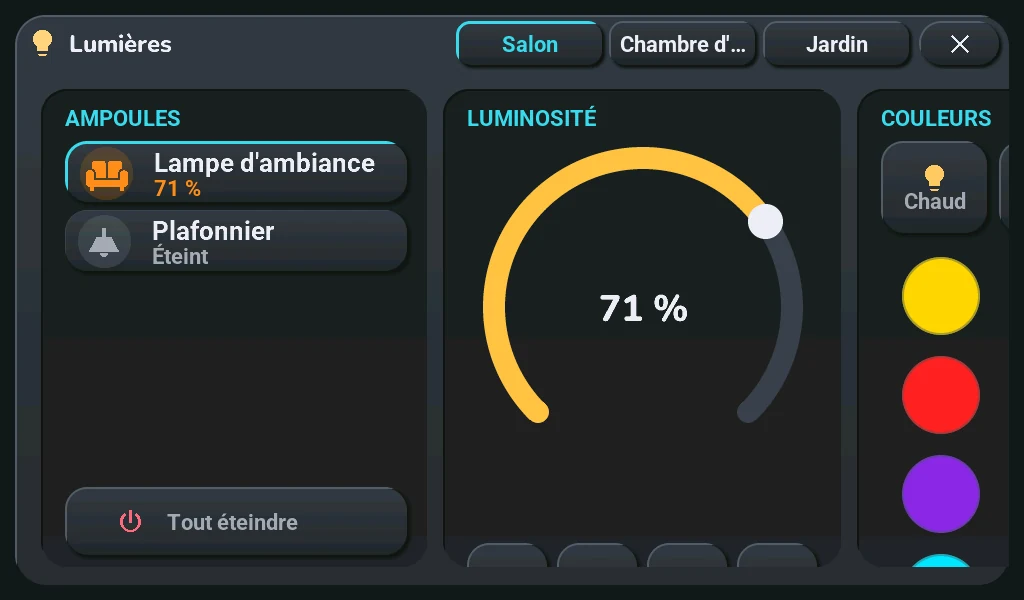
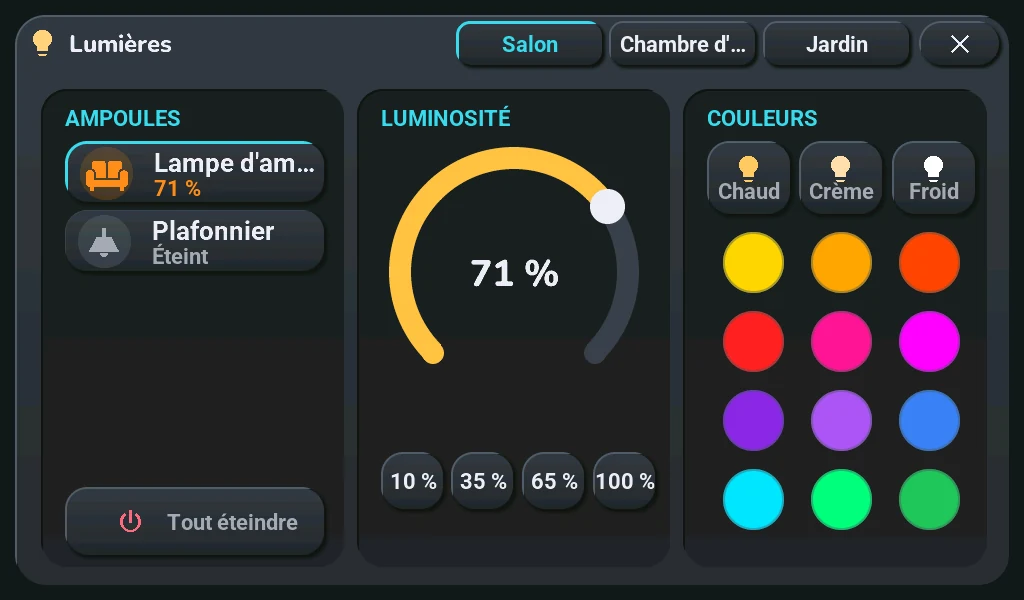
docs(waveshare): la 7B après le lot 4, images tirées du rendu de main
Le lot 4 (#462) met chaque popup à la taille de la 7B : la page le dit, avec ses
quelques écarts, et ce qui reste (les jeux, la page Bilan de l'énergie, qui dépasse
encore du bas). Images refaites depuis le run 38871154291 (même arbre que main) :
accueil, Lumières, Énergie Aujourd'hui. README, architecture et AGENTS.md alignés ;
durée de compilation d'AGENTS.md corrigée (1 à 3 min, pas 20-45 s).

diff --git a/docs/waveshare-7b.md b/docs/waveshare-7b.md
@@ -6,17 +6,17 @@
 
 The same firmware also runs on a second board, the **Waveshare ESP32-P4-WIFI6-Touch-LCD-7B**: a 7-inch, 1024×600 touch screen built around the same chips as the Tab5 (an ESP32-P4, an ESP32-C6 for Wi-Fi, an ES7210 for the microphones). It is a cheaper and bigger screen, with less on board: no battery, no motion sensor, no clock chip.
 
-**Status: experimental.** The author's board has been the daily screen of their home since 2026-10-14: display, touch, backlight, sound and Wi-Fi work, and Home Assistant sees it like a Tab5. One board only, though, and the inside of most popups is not laid out for its smaller screen yet ([what is left](#what-is-not-done-yet)). If you try it, say how it went in [Discussions → Hardware compatibility](https://github.com/Axellum/M5-Tab5-ESPHome-LVGL/discussions/categories/hardware-compatibility): it helps a lot.
+**Status: experimental.** The author's board has been the daily screen of their home since 2026-10-14: display, touch, backlight, sound and Wi-Fi work, and Home Assistant sees it like a Tab5. One board only, though, and the games and one energy page are not adapted to its screen yet ([what is left](#what-is-not-done-yet)). If you try it, say how it went in [Discussions → Hardware compatibility](https://github.com/Axellum/M5-Tab5-ESPHome-LVGL/discussions/categories/hardware-compatibility): it helps a lot.
 
 The choice of the board is one line at build time ([ADR-0061](decisions/0061-board-and-screen-size.md)); on the Tab5, nothing changes.
 
 ## What changes on screen
 
-The home screen is the Tab5's layout brought to 1024×600: same places, same proportions, smaller. The large fonts are scaled by 0.82 (about 1024 / 1280 and 600 / 720), the small ones keep their size so they stay readable. Every popup gets the same frame, sized to the screen; what is inside is still drawn for the Tab5 in most of them, and runs past the right or bottom edge.
+The home screen is the Tab5's layout brought to 1024×600: same places, same proportions, smaller. The large fonts are scaled by 0.82 (about 1024 / 1280 and 600 / 720), the small ones keep their size so they stay readable. The popups do the same: each keeps the Tab5's layout, smaller. Where a fixed-size text no longer fitted, it moves a little instead (the plant rows lose some margin, a rain amount drops its « mm » in a narrow weather column, the « On / Off » key of the remote wraps onto two lines); the camera pictures are asked at 720 × 405 instead of 960 × 540. The details are in [ADR-0061](decisions/0061-board-and-screen-size.md).
 
-| Home screen | Music (fits) | Lights (not adapted yet) |
+| Home screen | Lights | Energy |
 |---|---|---|
-| ![The home screen on the 7B at 1024×600, in French: clock, Ok Nabu frame, centre card and the five forecast cards](images/waveshare/7b-accueil.webp) | ![The Music popup on the 7B, in French: cover, title, buttons and volume, all inside the screen](images/waveshare/7b-musique.webp) | ![The Lights popup on the 7B, in French: the colour column is cut at the right edge and the scene buttons at the bottom](images/waveshare/7b-lumieres.webp) |
+| ![The home screen on the 7B at 1024×600, in French: clock, Ok Nabu frame, centre card and the five forecast cards](images/waveshare/7b-accueil.webp) | ![The Lights popup on the 7B, in French: bulbs, brightness ring and colours, all inside the screen](images/waveshare/7b-lumieres.webp) | ![The Energy popup on the 7B, Today page, in French: the sun's course, the production bars and the best window](images/waveshare/7b-energie.webp) |
 
 These pictures come from the off-device render (the firmware running on a PC, [debugging](debugging.md)), which draws every screen at 1024×600 on each firmware change; they are the same pixels as on the board, without the touch. The render of this board is in French only.
 
@@ -60,7 +60,7 @@ Two things learnt along the way:
 ## What is not done yet
 
 - **Not checked on the board:** the microphone and the wake word, the cameras popup (JPEG decoding), every game, a power cut without network.
-- **Not adapted to 1024×600 yet:** the inside of most popups (lights, shutters, climate, temperature, weather, energy, plants, settings, alarm clock, TV remote, cameras, Arcade): usable, but cut at the right or bottom edge. Already fitting: music, house, calendar, alerts, tracking, fridges, AI server. The games are not adapted either. These are the next lots of [ADR-0061](decisions/0061-board-and-screen-size.md); the render counts what runs past the edge for every screen, on every change.
+- **Not adapted to 1024×600 yet:** the games (the next lot of [ADR-0061](decisions/0061-board-and-screen-size.md)), and the « Balance » page of the Energy popup, which came after the popups were adapted and runs past the bottom edge. For every other screen, the render counts on each change what runs past its area: about as much as on the Tab5 itself, mostly the shutters, alarm clock and cameras popups, which do the same there.
 - Reported by others on this board, not seen here: a faint glow with the backlight at 0 %, a distorted speaker.
 - Start-up takes about 20 s before the first image, like the Tab5.
 
@@ -117,17 +117,17 @@ Sources: Waveshare's board support package and schematic, ESPHome's display mode
 
 Le même firmware tourne aussi sur une deuxième carte, la **Waveshare ESP32-P4-WIFI6-Touch-LCD-7B** : un écran tactile de 7 pouces en 1024×600, construit autour des mêmes puces que le Tab5 (un ESP32-P4, un ESP32-C6 pour le Wi-Fi, un ES7210 pour les micros). Un écran moins cher et plus grand, avec moins de choses à bord : pas de batterie, pas de capteur de mouvement, pas de puce d'horloge.
 
-**Statut : expérimental.** La carte de l'auteur est l'écran de tous les jours de sa maison depuis le 14/10/2026 : écran, tactile, rétroéclairage, son et Wi-Fi marchent, et Home Assistant la voit comme un Tab5. Une seule carte, cela dit, et l'intérieur de la plupart des popups n'est pas encore dessiné pour son écran plus petit ([ce qui reste](#ce-qui-reste-à-faire)). Si vous l'essayez, racontez ce que ça a donné dans [Discussions → Hardware compatibility](https://github.com/Axellum/M5-Tab5-ESPHome-LVGL/discussions/categories/hardware-compatibility) : ça aide beaucoup.
+**Statut : expérimental.** La carte de l'auteur est l'écran de tous les jours de sa maison depuis le 14/10/2026 : écran, tactile, rétroéclairage, son et Wi-Fi marchent, et Home Assistant la voit comme un Tab5. Une seule carte, cela dit, et les jeux et une page de l'énergie ne sont pas encore adaptés à son écran ([ce qui reste](#ce-qui-reste-à-faire)). Si vous l'essayez, racontez ce que ça a donné dans [Discussions → Hardware compatibility](https://github.com/Axellum/M5-Tab5-ESPHome-LVGL/discussions/categories/hardware-compatibility) : ça aide beaucoup.
 
 Le choix de la carte tient en une ligne à la compilation ([ADR-0061](decisions/0061-board-and-screen-size.md)) ; sur le Tab5, rien ne change.
 
 ## Ce qui change à l'écran
 
-L'accueil reprend la mise en page du Tab5, ramenée à 1024×600 : mêmes places, mêmes proportions, en plus petit. Les grosses polices sont réduites à 0,82 (à peu près 1024 / 1280 et 600 / 720), les petites gardent leur taille pour rester lisibles. Chaque popup reçoit le même cadre, à la taille de l'écran ; ce qu'il y a dedans est encore dessiné pour le Tab5 dans la plupart d'entre eux, et dépasse du bord droit ou du bas.
+L'accueil reprend la mise en page du Tab5, ramenée à 1024×600 : mêmes places, mêmes proportions, en plus petit. Les grosses polices sont réduites à 0,82 (à peu près 1024 / 1280 et 600 / 720), les petites gardent leur taille pour rester lisibles. Les popups font de même : chacun garde la mise en page du Tab5, en plus petit. Là où un texte de taille fixe ne tenait plus, il se décale un peu (les lignes des plantes perdent un peu de marge, une quantité de pluie perd son « mm » dans une colonne météo étroite, la touche « Marche / Arrêt » de la télécommande passe sur deux lignes) ; les images des caméras sont demandées en 720 × 405 au lieu de 960 × 540. Le détail est dans l'[ADR-0061](decisions/0061-board-and-screen-size.md).
 
-| Accueil | Musique (adapté) | Lumières (pas encore adapté) |
+| Accueil | Lumières | Énergie |
 |---|---|---|
-| ![L'accueil sur la 7B en 1024×600 : horloge, cadre Ok Nabu, carte centrale et les cinq cartes de prévisions](images/waveshare/7b-accueil.webp) | ![Le popup Musique sur la 7B : pochette, titre, boutons et volume, tout dans l'écran](images/waveshare/7b-musique.webp) | ![Le popup Lumières sur la 7B : la colonne des couleurs est coupée au bord droit, les boutons de scène en bas](images/waveshare/7b-lumieres.webp) |
+| ![L'accueil sur la 7B en 1024×600 : horloge, cadre Ok Nabu, carte centrale et les cinq cartes de prévisions](images/waveshare/7b-accueil.webp) | ![Le popup Lumières sur la 7B : ampoules, anneau de luminosité et couleurs, tout dans l'écran](images/waveshare/7b-lumieres.webp) | ![Le popup Énergie sur la 7B, page Aujourd'hui : la course du soleil, les barres de production et le meilleur créneau](images/waveshare/7b-energie.webp) |
 
 Ces images viennent du rendu hors tablette (le firmware qui tourne sur un PC, [diagnostiquer](debugging.md#version-française)), qui dessine chaque écran en 1024×600 à chaque changement du firmware : ce sont les mêmes pixels que sur la carte, sans le tactile. Le rendu de cette carte n'existe qu'en français.
 
@@ -171,7 +171,7 @@ Deux choses apprises en route :
 ## Ce qui reste à faire
 
 - **Pas vérifié sur la carte :** le micro et le mot d'activation, le popup Caméras (décodage JPEG), chacun des jeux, une coupure de courant sans réseau.
-- **Pas encore adapté au 1024×600 :** l'intérieur de la plupart des popups (lumières, volets, clim, température, météo, énergie, plantes, réglages, réveil, télécommande, caméras, Arcade) : utilisables, mais coupés au bord droit ou en bas. Déjà à la bonne taille : musique, maison, calendrier, alertes, suivi, frigos, serveur IA. Les jeux non plus ne sont pas adaptés. Ce sont les lots suivants de l'[ADR-0061](decisions/0061-board-and-screen-size.md) ; le rendu compte, pour chaque écran et à chaque changement, ce qui dépasse du bord.
+- **Pas encore adapté au 1024×600 :** les jeux (le prochain lot de l'[ADR-0061](decisions/0061-board-and-screen-size.md)), et la page « Bilan » du popup Énergie, arrivée après l'adaptation des popups, qui dépasse du bas. Pour tous les autres écrans, le rendu compte à chaque changement ce qui dépasse de sa zone : à peu près autant que sur le Tab5 lui-même, surtout dans les popups Volets, Réveil et Caméras, qui font pareil là-bas.
 - Signalé par d'autres sur cette carte, pas vu ici : une faible lueur avec le rétroéclairage à 0 %, un haut-parleur qui sature.
 - Le démarrage prend une vingtaine de secondes avant la première image, comme sur le Tab5.
 

diff --git a/docs/architecture.md b/docs/architecture.md
@@ -86,7 +86,7 @@ Shared dimensional tokens, loaded first so every other package can reference the
 ---
 
 ### `carte-*.yaml`
-The board, picked at compile time by `tab5_carte:` in `Tab5/user_entities.yaml` ([ADR-0061](decisions/0061-board-and-screen-size.md)): `tab5` (the default, the M5Stack Tab5) or `waveshare-7b` (Waveshare ESP32-P4 7B, 1024×600, experimental: it runs on the author's board since 2026-10-14, the home screen and the popup frame follow its screen size, the inside of most popups not yet, see [Waveshare ESP32-P4 7B](waveshare-7b.md)). `carte-tab5.yaml` loads `geometrie-tab5.yaml`, `tab5-hardware.yaml` and the screen revision `ecran-*.yaml` below; `carte-waveshare-7b.yaml` holds the whole hardware of that board and stubs the ids of the Tab5 hardware it lacks (power switches, battery, RTC) so the other packages compile unchanged. Each board's `geometrie-*.yaml` gives the screen size (`carte_ecran_l`/`carte_ecran_h`, from which the tokens and the C++ `kEcranL`/`kEcranH` derive), the panel size, the LVGL rotation and the scale of the large fonts. The root file also picks `tab5-imu.yaml` (BMI270) on the Tab5 and `tab5-imu-absente.yaml` elsewhere. See [`docs/hardware.md`](hardware.md#waveshare-esp32-p4-7b-experimental).
+The board, picked at compile time by `tab5_carte:` in `Tab5/user_entities.yaml` ([ADR-0061](decisions/0061-board-and-screen-size.md)): `tab5` (the default, the M5Stack Tab5) or `waveshare-7b` (Waveshare ESP32-P4 7B, 1024×600, experimental: it runs on the author's board since 2026-10-14, the home screen and the popups follow its screen size, the games and the energy balance page not yet, see [Waveshare ESP32-P4 7B](waveshare-7b.md)). `carte-tab5.yaml` loads `geometrie-tab5.yaml`, `tab5-hardware.yaml` and the screen revision `ecran-*.yaml` below; `carte-waveshare-7b.yaml` holds the whole hardware of that board and stubs the ids of the Tab5 hardware it lacks (power switches, battery, RTC) so the other packages compile unchanged. Each board's `geometrie-*.yaml` gives the screen size (`carte_ecran_l`/`carte_ecran_h`, from which the tokens and the C++ `kEcranL`/`kEcranH` derive), the panel size, the LVGL rotation and the scale of the large fonts. The root file also picks `tab5-imu.yaml` (BMI270) on the Tab5 and `tab5-imu-absente.yaml` elsewhere. See [`docs/hardware.md`](hardware.md#waveshare-esp32-p4-7b-experimental).
 
 ---
 
@@ -456,7 +456,7 @@ Tokens dimensionnels partagés, chargés en premier pour que tous les autres pac
 ---
 
 ### `carte-*.yaml`
-La carte, choisie à la compilation par `tab5_carte:` dans `Tab5/user_entities.yaml` ([ADR-0061](decisions/0061-board-and-screen-size.md)) : `tab5` (par défaut, le M5Stack Tab5) ou `waveshare-7b` (Waveshare ESP32-P4 7B, 1024×600, expérimentale : elle tourne sur la carte de l'auteur depuis le 14/10/2026, l'accueil et le cadre des popups suivent la taille de son écran, pas encore l'intérieur de la plupart des popups, voir [Waveshare ESP32-P4 7B](waveshare-7b.md#version-française)). `carte-tab5.yaml` charge `geometrie-tab5.yaml`, `tab5-hardware.yaml` et la révision d'écran `ecran-*.yaml` ci-dessous ; `carte-waveshare-7b.yaml` porte tout le matériel de cette carte et remplace par des bouchons les id du matériel du Tab5 qu'elle n'a pas (alimentations, batterie, RTC), pour que les autres packages compilent sans changer. Le `geometrie-*.yaml` de chaque carte donne la taille de l'écran (`carte_ecran_l`/`carte_ecran_h`, dont dérivent les jetons et les `kEcranL`/`kEcranH` du C++), la taille de la dalle, la rotation de LVGL et l'échelle des grosses polices. Le fichier racine choisit aussi `tab5-imu.yaml` (BMI270) sur le Tab5 et `tab5-imu-absente.yaml` ailleurs. Voir [`docs/hardware.md`](hardware.md#waveshare-esp32-p4-7b-expérimentale).
+La carte, choisie à la compilation par `tab5_carte:` dans `Tab5/user_entities.yaml` ([ADR-0061](decisions/0061-board-and-screen-size.md)) : `tab5` (par défaut, le M5Stack Tab5) ou `waveshare-7b` (Waveshare ESP32-P4 7B, 1024×600, expérimentale : elle tourne sur la carte de l'auteur depuis le 14/10/2026, l'accueil et les popups suivent la taille de son écran, pas encore les jeux ni la page Bilan de l'énergie, voir [Waveshare ESP32-P4 7B](waveshare-7b.md#version-française)). `carte-tab5.yaml` charge `geometrie-tab5.yaml`, `tab5-hardware.yaml` et la révision d'écran `ecran-*.yaml` ci-dessous ; `carte-waveshare-7b.yaml` porte tout le matériel de cette carte et remplace par des bouchons les id du matériel du Tab5 qu'elle n'a pas (alimentations, batterie, RTC), pour que les autres packages compilent sans changer. Le `geometrie-*.yaml` de chaque carte donne la taille de l'écran (`carte_ecran_l`/`carte_ecran_h`, dont dérivent les jetons et les `kEcranL`/`kEcranH` du C++), la taille de la dalle, la rotation de LVGL et l'échelle des grosses polices. Le fichier racine choisit aussi `tab5-imu.yaml` (BMI270) sur le Tab5 et `tab5-imu-absente.yaml` ailleurs. Voir [`docs/hardware.md`](hardware.md#waveshare-esp32-p4-7b-expérimentale).
 
 ---
 

diff --git a/README.md b/README.md
@@ -113,7 +113,7 @@ Just want to see it running first? The [demo mode](docs/demo_mode.md) pushes dem
 | **ST7123** | 14 Oct 2025 → 28 Apr 2026 | ✅ Supported — the author's device, in daily use (default) |
 | **ST7121** | from 28 Apr 2026 | ✅ Runs on another user's unit since October 2026: display, touch and wake word ([Discussion #278](https://github.com/Axellum/M5-Tab5-ESPHome-LVGL/discussions/278)); the author has none — add `tab5_ecran: st7121` to `Tab5/user_entities.yaml` |
 | **ILI9881C** + GT911 touch | 9 May 2025 → 14 Oct 2025 | 🧪 Compiles, untested — add `tab5_ecran: ili9881c` to `Tab5/user_entities.yaml` |
-| **Waveshare ESP32-P4 7B** (another board: 7-inch, 1024×600) | — | 🧪 Experimental — runs on the author's board since 14 Oct 2026, the inside of most popups not adapted to its screen yet; build it yourself with `tab5_carte: waveshare-7b` and ESPHome 2026.9.1 ([Waveshare 7B](docs/waveshare-7b.md)) |
+| **Waveshare ESP32-P4 7B** (another board: 7-inch, 1024×600) | — | 🧪 Experimental — runs on the author's board since 14 Oct 2026, the games and the energy balance page not adapted to its screen yet; build it yourself with `tab5_carte: waveshare-7b` and ESPHome 2026.9.1 ([Waveshare 7B](docs/waveshare-7b.md)) |
 
 "Compiles, untested": the CI builds this variant on every display change, and the install page offers it, but this firmware has not been run on that chip yet. The ST7121 is built the same way, and has run on a user's unit since October 2026. How to identify your unit, and the ST7121 reports: [hardware revisions](docs/hardware.md#hardware-revisions). Tried one? → [Discussions](https://github.com/Axellum/M5-Tab5-ESPHome-LVGL/discussions/categories/hardware-compatibility).
 
@@ -308,7 +308,7 @@ Envie de le voir tourner d'abord ? Le [mode démo](docs/demo_mode.md#version-fra
 | **ST7123** | du 14/10/2025 au 28/04/2026 | ✅ Prise en charge — la tablette de l'auteur, utilisée tous les jours (défaut) |
 | **ST7121** | depuis le 28/04/2026 | ✅ Tourne chez un autre utilisateur depuis octobre 2026 : écran, tactile et mot d'activation ([discussion #278](https://github.com/Axellum/M5-Tab5-ESPHome-LVGL/discussions/278)) ; l'auteur n'en a pas — ajouter `tab5_ecran: st7121` dans `Tab5/user_entities.yaml` |
 | **ILI9881C** + tactile GT911 | du 09/05/2025 au 14/10/2025 | 🧪 Compile, non testée — ajouter `tab5_ecran: ili9881c` dans `Tab5/user_entities.yaml` |
-| **Waveshare ESP32-P4 7B** (une autre carte : 7 pouces, 1024×600) | — | 🧪 Expérimentale — tourne sur la carte de l'auteur depuis le 14/10/2026, l'intérieur de la plupart des popups pas encore adapté à son écran ; à compiler soi-même avec `tab5_carte: waveshare-7b` et ESPHome 2026.9.1 ([Waveshare 7B](docs/waveshare-7b.md#version-française)) |
+| **Waveshare ESP32-P4 7B** (une autre carte : 7 pouces, 1024×600) | — | 🧪 Expérimentale — tourne sur la carte de l'auteur depuis le 14/10/2026, les jeux et la page Bilan de l'énergie pas encore adaptés à son écran ; à compiler soi-même avec `tab5_carte: waveshare-7b` et ESPHome 2026.9.1 ([Waveshare 7B](docs/waveshare-7b.md#version-française)) |
 
 « Compile, non testée » : la CI compile cette variante à chaque changement de l'écran, et la page d'installation la propose, mais ce firmware n'a encore jamais tourné sur cette puce. La ST7121 est compilée de la même façon, et tourne chez un utilisateur depuis octobre 2026. Comment identifier votre appareil, et les retours sur la ST7121 : [révisions matérielles](docs/hardware.md#révisions-matérielles). Vous en avez essayé une ? → [Discussions](https://github.com/Axellum/M5-Tab5-ESPHome-LVGL/discussions/categories/hardware-compatibility).
 

diff --git a/AGENTS.md b/AGENTS.md
@@ -28,11 +28,11 @@ If you introduce a new non-obvious constraint, add or extend the relevant `[AI-C
 ## Build & verify
 
 ```bash
-# Compile — must succeed before any commit. Toolchain is cached locally (~20-45s).
+# Compile — must succeed before any commit. Toolchain is cached locally (about 1-3 min incremental, about 5 min after a clean).
 python -m esphome compile tab5-ha-hmi.yaml
 ```
 
-- **Second board, the Waveshare ESP32-P4 7B** (1024×600, experimental, [ADR-0061](docs/decisions/0061-board-and-screen-size.md), [`docs/waveshare-7b.md`](docs/waveshare-7b.md)): `python -m esphome -s tab5_carte waveshare-7b compile tab5-ha-hmi.yaml`, ESPHome **2026.9.1** at least (a `static_assert` in `Tab5/ecran/carte_7b_version.h` stops an older one). First flash over USB, not from the install page. Its off-device render is the `rendu-1024x600` artifact (job `rendu-7b`): its JSON counts, per screen, the objects cut by or outside the screen — the inside of most popups is not laid out for 1024×600 yet.
+- **Second board, the Waveshare ESP32-P4 7B** (1024×600, experimental, [ADR-0061](docs/decisions/0061-board-and-screen-size.md), [`docs/waveshare-7b.md`](docs/waveshare-7b.md)): `python -m esphome -s tab5_carte waveshare-7b compile tab5-ha-hmi.yaml`, ESPHome **2026.9.1** at least (a `static_assert` in `Tab5/ecran/carte_7b_version.h` stops an older one). First flash over USB, not from the install page. Its off-device render is the `rendu-1024x600` artifact (job `rendu-7b`): its JSON counts, per screen, the objects cut by or outside the screen (compare with the Tab5's own counts: some popups clip on both); the games and the Energy « Bilan » page are not laid out for 1024×600 yet.
 - If you modified a file included via `!include` (anything in `Tab5/ui_components/`), run `esphome clean` before the next `esphome run` — stale build cache is a known ESPHome trap.
 - Compare the reported `config_hash` before/after a refactor that should be behavior-neutral — identical hash is the standard proof of "no functional change" used across this project's PR history.
 - OTA-flashing the real device is a deliberate, human-authorized action, not a default step of a coding task — only do it if explicitly asked. If you do: confirm afterward via the device's own diagnostic entities (`ha_api_status`, boot time on `Tab5 Uptime` unchanged after the flash's own reboot, no reboot) rather than assuming success.
